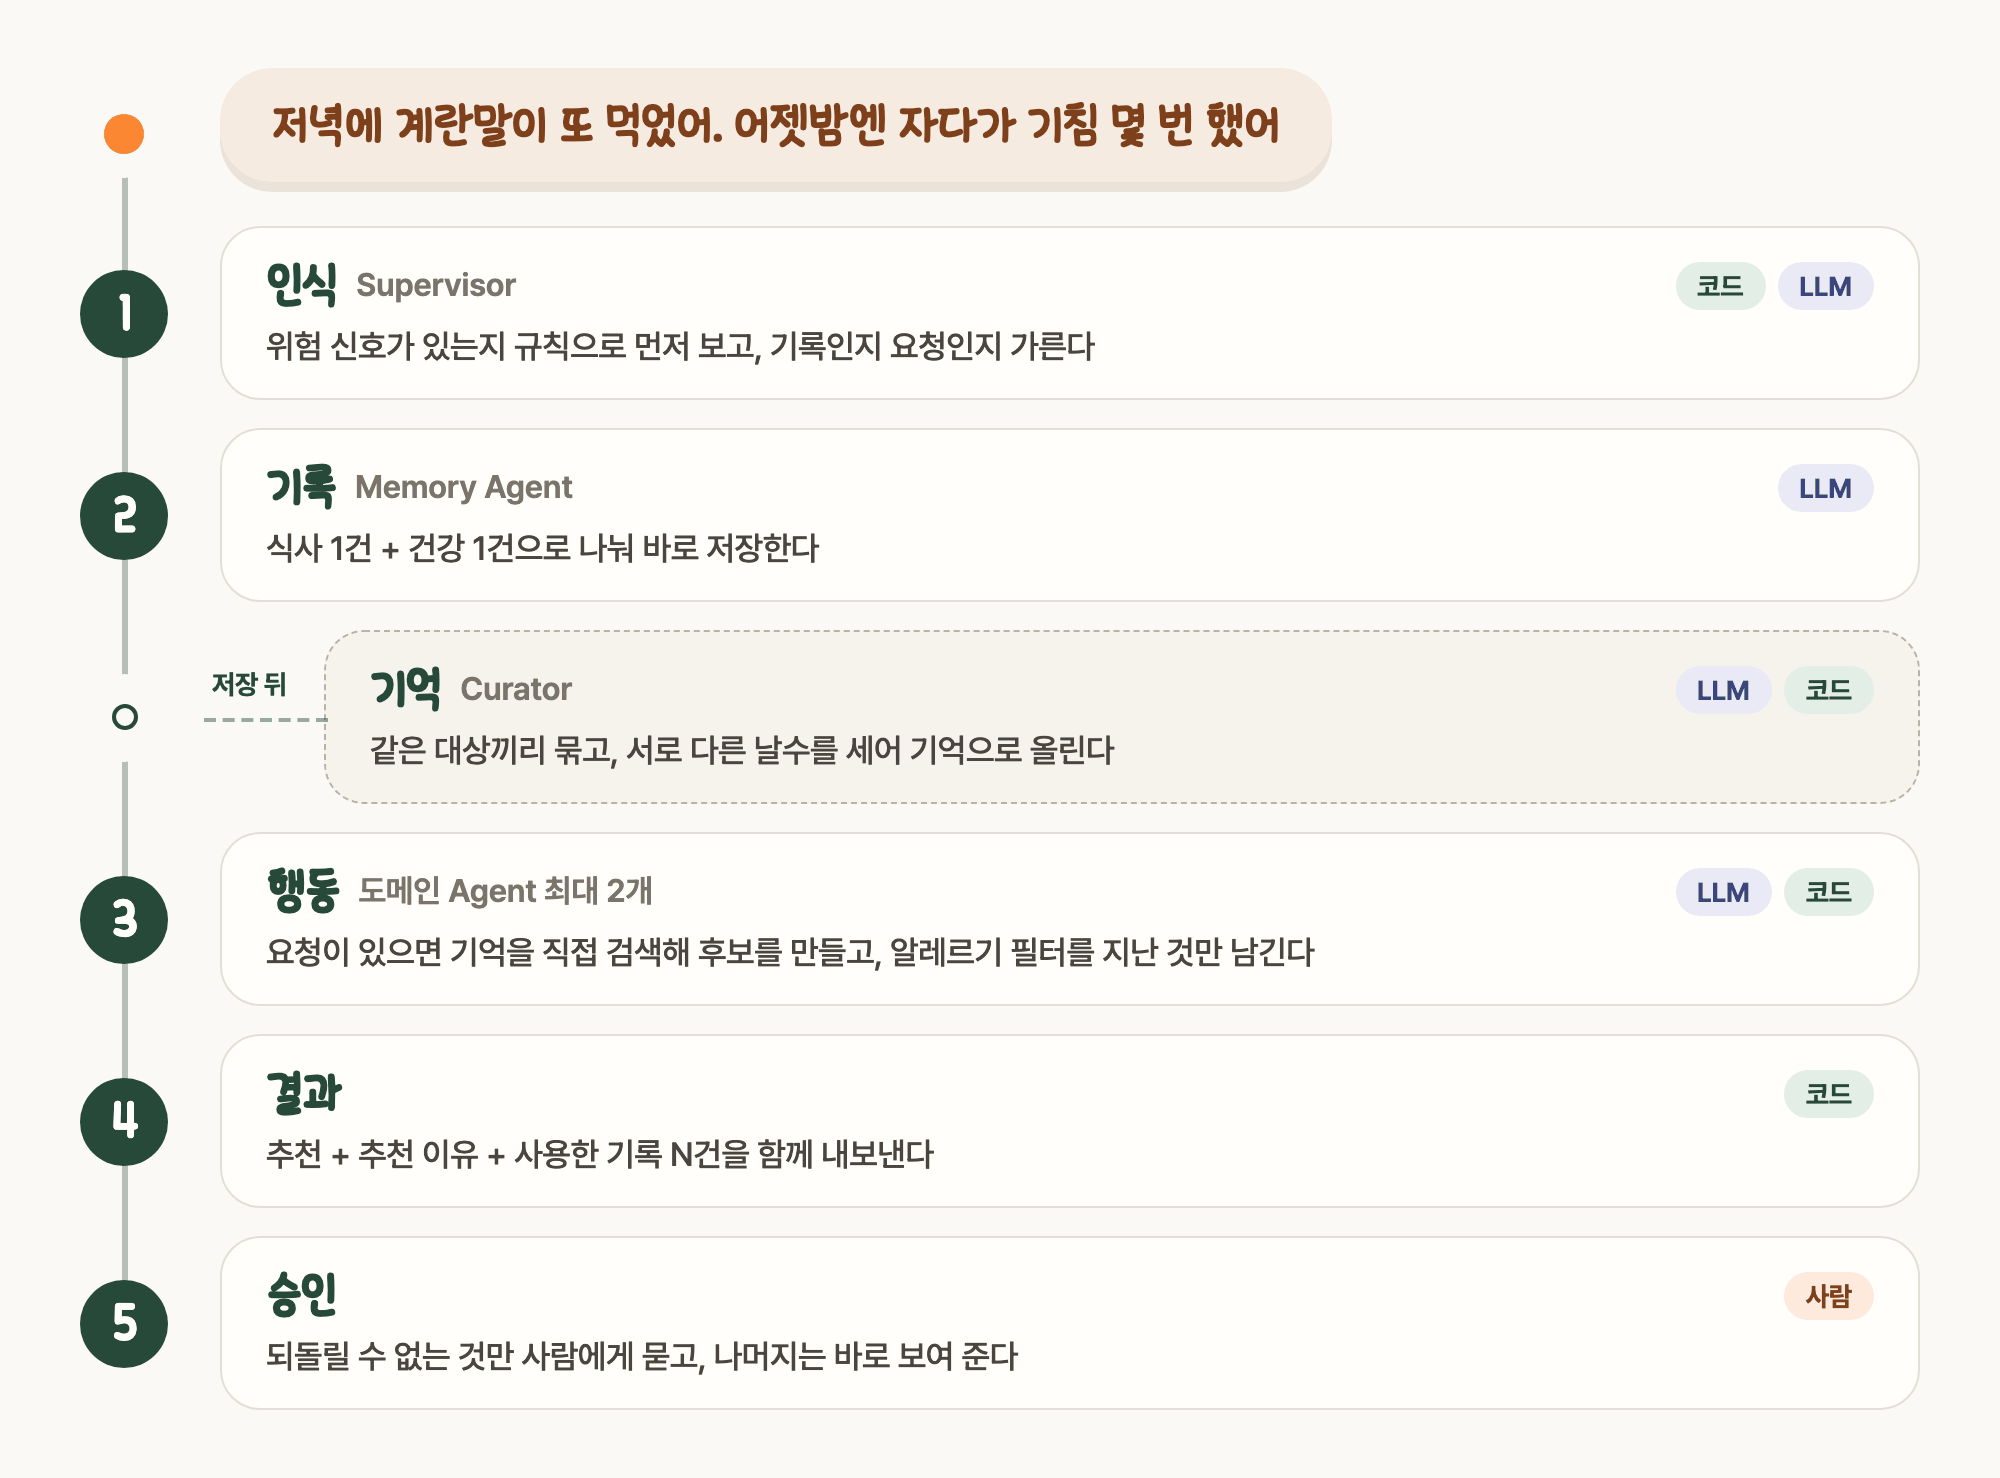
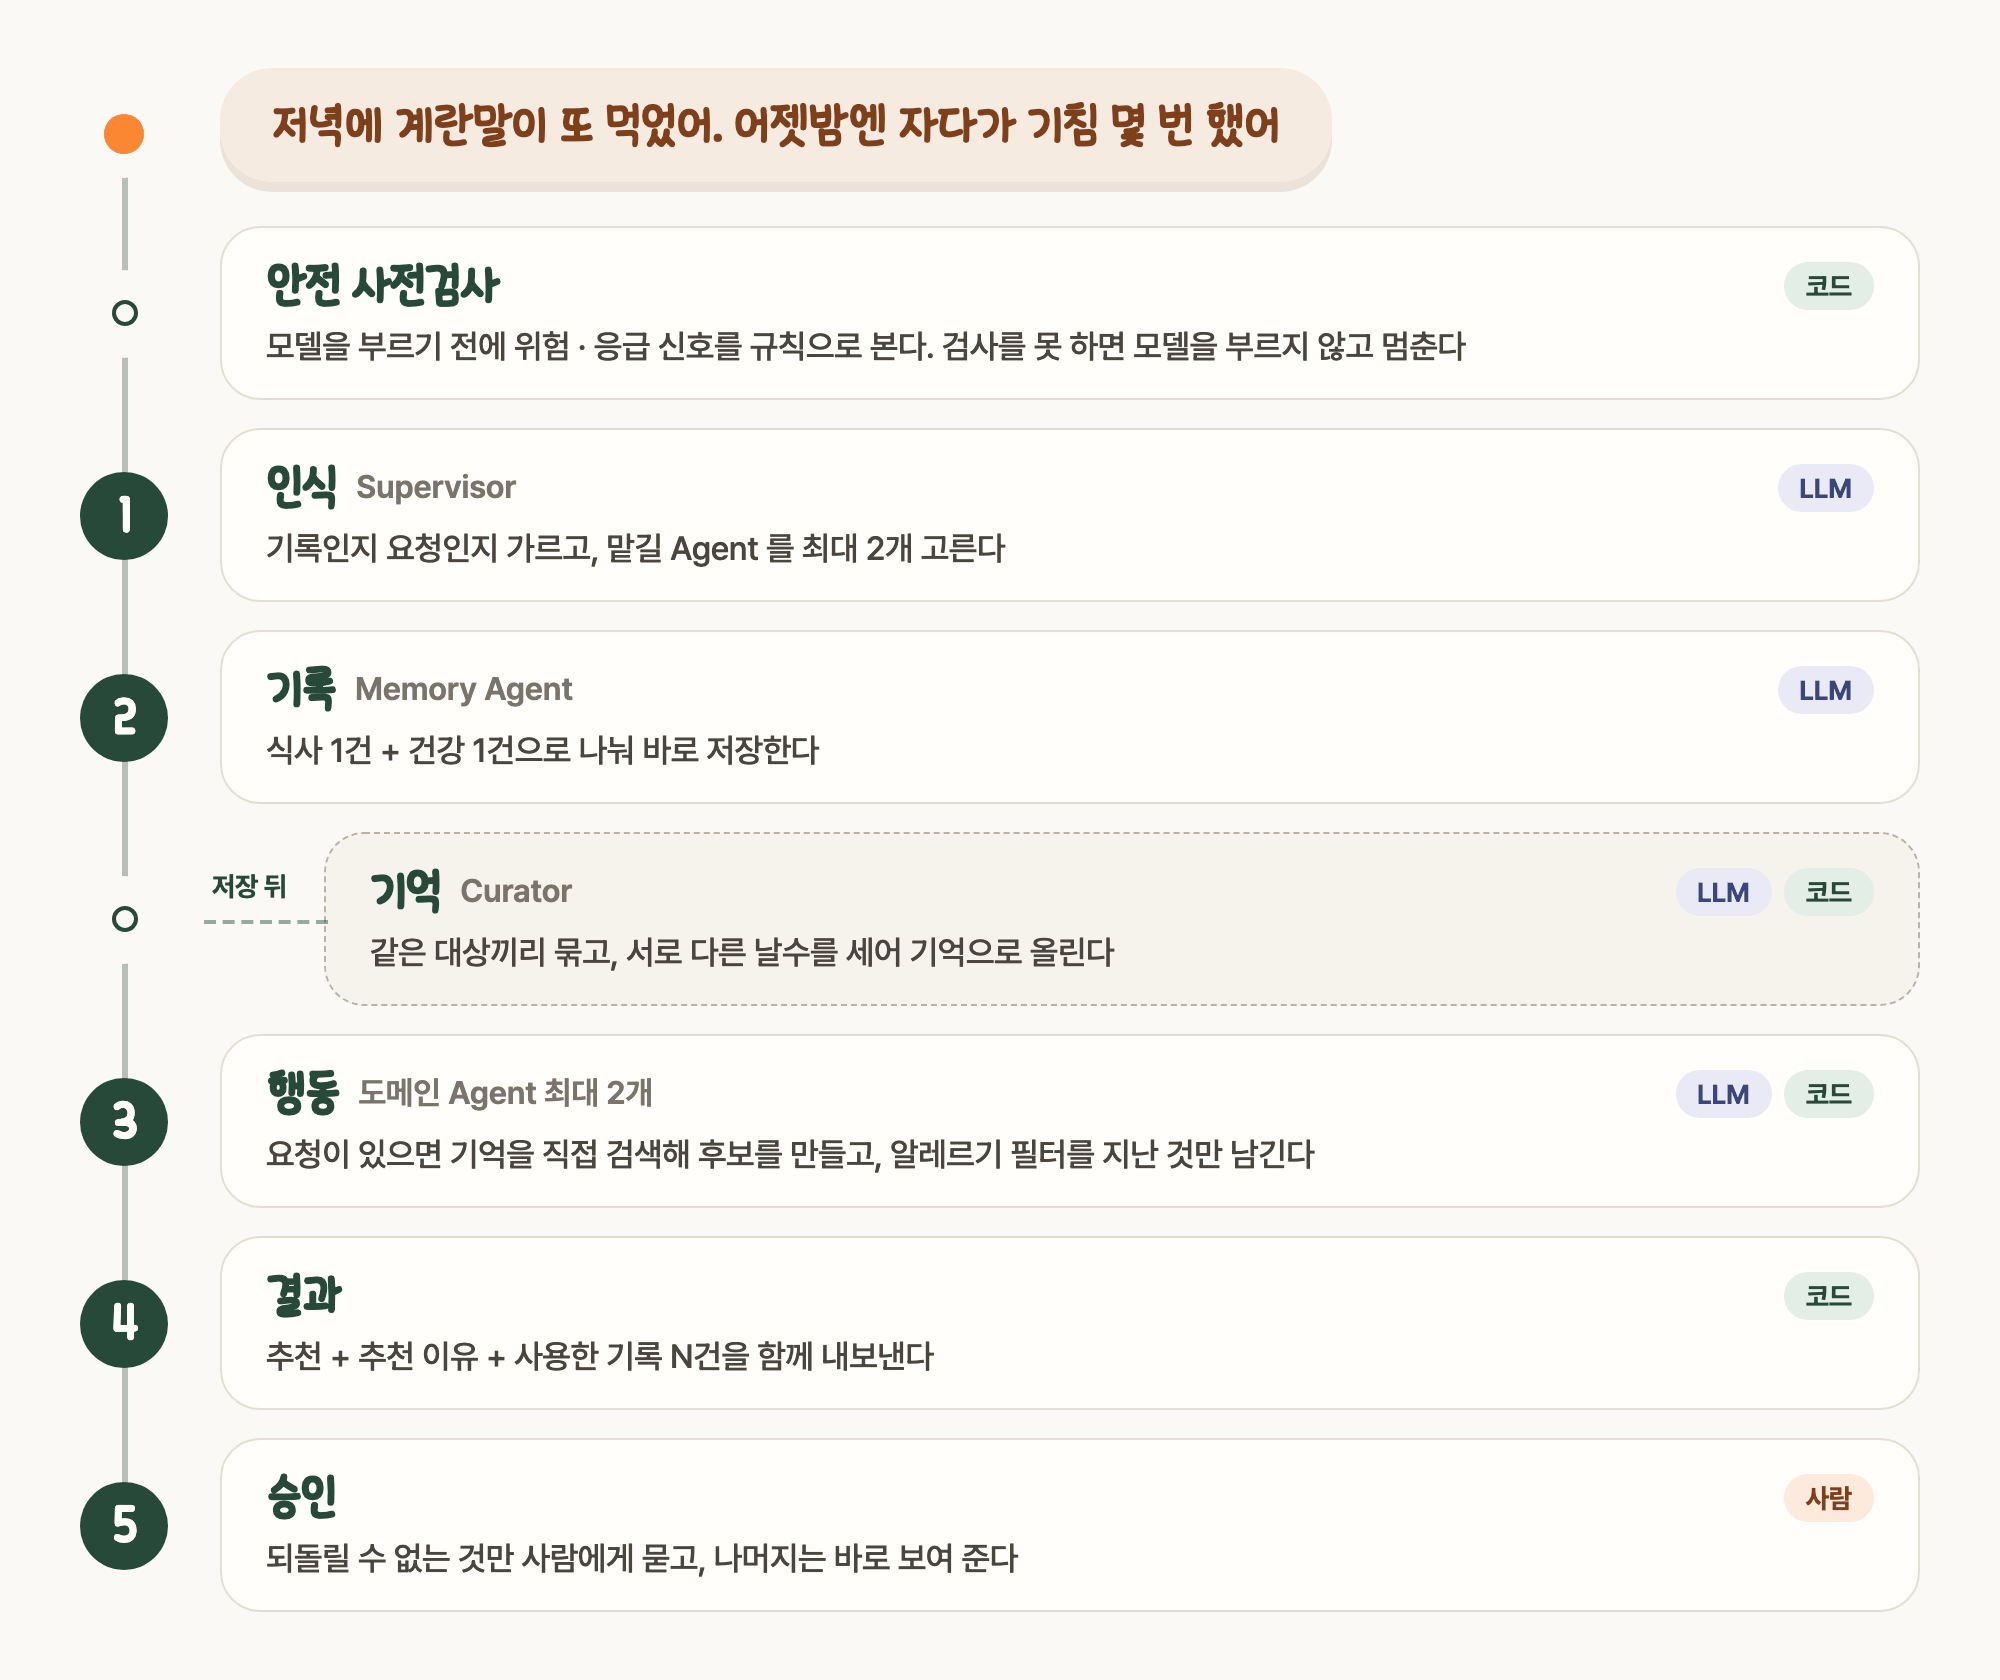
docs(readme): 리뷰 반영 — 급식표 수치를 공식 지표로, 기억 보관 3주 · 승격 2주 3일, 안전 사전검사를 Supervisor 앞으로, live eval · 실행 안내 보완

diff --git a/README.md b/README.md
@@ -114,9 +114,9 @@
 
 **한두 번 적혔을 때**<br>근거로는 쓰지만 아이의 성향으로 정하지 않습니다.
 
-**서로 다른 날에 반복됐을 때**<br>확정된 기억이 되어 추천의 근거로 먼저 쓰입니다.
+**2주 안에 서로 다른 3일에 적혔을 때**<br>확정된 기억이 되어 추천의 근거로 먼저 쓰입니다.
 
-**오래됐을 때**<br>6개월이 지난 관심은 혼자서는 근거가 되지 못합니다.
+**한동안 다시 적히지 않았을 때**<br>3주 동안 다시 적히지 않은 관심은 보관되어 근거에서 빠집니다. 6개월이 지난 기록은 어떤 경우에도 혼자 근거가 되지 못합니다.
 
 **보호자가 고쳤을 때**<br>"이번만 그랬어요" · "잘못된 기록" 에 따라 기억이 바뀝니다.
 
@@ -146,10 +146,12 @@
 
 ### 한 줄이 지나가는 길
 
-<img src="docs/assets/readme/pipeline.png" width="100%" alt="보호자의 한 줄이 지나가는 다섯 단계. 1 인식(Supervisor) — 위험 신호를 규칙으로 먼저 보고 기록인지 요청인지 가른다. 2 기록(Memory Agent) — 식사 1건과 건강 1건으로 나눠 바로 저장한다. 저장 뒤 Curator 가 같은 대상끼리 묶고 서로 다른 날수를 세어 기억으로 올린다. 3 행동(도메인 Agent 최대 2개) — 요청이 있으면 기억을 검색해 후보를 만들고 알레르기 필터를 지난 것만 남긴다. 4 결과 — 추천, 추천 이유, 사용한 기록 N건. 5 승인 — 되돌릴 수 없는 것만 사람에게 묻는다.">
+<img src="docs/assets/readme/pipeline.png" width="100%" alt="보호자의 한 줄이 지나가는 길. 먼저 안전 사전검사 — 모델을 부르기 전에 위험 · 응급 신호를 규칙으로 보고, 검사를 못 하면 모델을 부르지 않고 멈춘다. 1 인식(Supervisor) — 기록인지 요청인지 가르고 맡길 Agent 를 최대 2개 고른다. 2 기록(Memory Agent) — 식사 1건과 건강 1건으로 나눠 바로 저장한다. 저장 뒤 Curator 가 같은 대상끼리 묶고 서로 다른 날수를 세어 기억으로 올린다. 3 행동(도메인 Agent 최대 2개) — 요청이 있으면 기억을 검색해 후보를 만들고 알레르기 필터를 지난 것만 남긴다. 4 결과 — 추천, 추천 이유, 사용한 기록 N건. 5 승인 — 되돌릴 수 없는 것만 사람에게 묻는다.">
 
 | 이렇게 만들었다 | 왜 |
 | --- | --- |
+| **모델보다 규칙이 먼저** | 위험 · 응급 신호 검사는 Supervisor 앞에 있다. 검사를 못 하면 모델을 부르지 않고 멈춘다 |
+| **역할마다 모델을 따로** | Supervisor · Memory · 도메인 Agent 가 각자 키 · 모델 · 추론 강도를 갖는다. 비우면 Memory 의 값을 따른다 |
 | **저장이 검색보다 먼저** | 방금 저장한 기록이 같은 요청의 추천 근거로 잡혀야 한다. 그래서 백엔드와 AI 를 한 서비스로 묶었다 |
 | **20초를 넘기면 부분 결과** | Agent 하나가 늦거나 실패해도 끝난 쪽은 먼저 보여 준다 |
 | **성향은 규칙이 올린다** | 기억은 `candidate` 로 시작하고 반복 집계를 거쳐야 `confirmed` 가 된다. LLM 은 이 상태를 쓰지 못한다 |
@@ -179,7 +181,7 @@ Agent 별 설계 · 프롬프트 · 측정은 [개발 문서 사이트](https://
 | --- | --- |
 | 모바일은 **웹뷰 껍데기** | 화면이 두 벌이 되면 절대 규칙도 두 곳에서 지켜야 한다 |
 | 벡터 DB 를 따로 두지 않고 **PostgreSQL 한 곳** | 여섯 명이 10주에 운영할 인프라는 적을수록 좋다 |
-| 사진은 화면이 **S3 에 바로** 올린다 | 사진 본문이 API 서버를 거치지 않는다. 서버는 읽자마자 지운다 |
+| 사진은 화면이 **S3 에 바로** 올린다 | 업로드가 API 서버를 거치지 않는다. 서버는 읽을 때만 내려받고 바로 지운다 |
 | 배포는 **OIDC + Systems Manager** | 저장소에 서버 열쇠를 두지 않는다 |
 
 서버 구성과 운영 절차는 [배포 · 운영 문서](https://kakaotechcampus-4.github.io/ktc4-pusan-3/ops/deploy-v1/)에 있습니다.
@@ -219,7 +221,7 @@ Agent 별 설계 · 프롬프트 · 측정은 [개발 문서 사이트](https://
 | 계란과 달걀을 **다른 것**으로 본다 | 임베딩 유사도가 뜻이 아니라 글자를 따라갔다 (0.20) | "같은 대상인가" 만 묻는 LLM 판정 | 유사도는 후보 추리기에만 |
 | 긴 입력에서 **출력이 잘린다** | 1,000자부터 Supervisor 출력이 상한에 걸렸다 | 길이별로 재서 500자로 | 긴 글은 사진 읽기로 |
 
-계기 · 비교 · 대가는 [설계 결정 9개](https://kakaotechcampus-4.github.io/ktc4-pusan-3/overview/decisions-v1/)와 [워커 2개로 돌려 본 기록](https://kakaotechcampus-4.github.io/ktc4-pusan-3/ops/workers-2-check-v1/)에 적었습니다.
+계기 · 비교 · 대가는 [설계 결정 8개와 그 밖의 변경](https://kakaotechcampus-4.github.io/ktc4-pusan-3/overview/decisions-v1/)와 [워커 2개로 돌려 본 기록](https://kakaotechcampus-4.github.io/ktc4-pusan-3/ops/workers-2-check-v1/)에 적었습니다.
 
 ## 정말 그렇게 움직이는지 쟀습니다
 
@@ -230,22 +232,22 @@ Agent 별 설계 · 프롬프트 · 측정은 [개발 문서 사이트](https://
 <td align="center" width="25%"><h3>8 / 10</h3><b>기획 때 정한 시나리오</b><br><sub>실제 모델 · 3회 모두 통과해야 통과</sub></td>
 <td align="center" width="25%"><h3>0건</h3><b>절대 규칙 위반</b><br><sub>147 run 을 코드로 판정</sub></td>
 <td align="center" width="25%"><h3>39 / 40</h3><b>장애 점검</b><br><sub>부품 10 × 장애 4 · make test 마다</sub></td>
-<td align="center" width="25%"><h3>178 / 178</h3><b>급식표 메뉴 읽기</b><br><sub>사람이 확정한 정답 1장 · 1회</sub></td>
+<td align="center" width="25%"><h3>68 / 69</h3><b>급식표 끼니 읽기</b><br><sub>정답 1장 × 5회 · 틀린 메뉴가 한 번도 붙지 않은 끼니</sub></td>
 </tr>
 </table>
 
-실패한 2개의 원인은 [기준선 결과](eval/results/2026-11-10.md)에, 평가를 짠 방법은 [eval 문서](https://kakaotechcampus-4.github.io/ktc4-pusan-3/eval/eval-v1/)에, 남은 1칸은 [장애 점검표](eval/faults.md)에 있습니다.
+실패한 2개의 원인은 [기준선 결과](eval/results/2026-11-10.md)에, 평가를 짠 방법은 [eval 문서](https://kakaotechcampus-4.github.io/ktc4-pusan-3/eval/eval-v1/)에, 남은 1칸은 [장애 점검표](eval/faults.md)에, 급식표를 잰 방법은 [급식표 OCR 평가](docs/agents/eval/MEAL_OCR_EVAL.md)에 있습니다.
 
 > [!NOTE]
 > **아직 못 한 것**
 > - 서버는 한 대, 워커는 1개입니다. 상태를 DB 로 옮겨 늘릴 준비까지만 했습니다.
-> - 10개 시나리오 중 2개가 통과하지 못했습니다 — 기록과 요청이 섞인 한 줄, 되묻기 답 이어받기.
+> - 10개 시나리오 중 2개가 통과하지 못했습니다(기록과 요청이 섞인 한 줄, 되묻기 답 이어받기). 두 개 모두 원인은 측정 뒤에 고쳤지만([#841](https://github.com/kakaotechcampus-4/ktc4-pusan-3/pull/841) · [#950](https://github.com/kakaotechcampus-4/ktc4-pusan-3/pull/950)), 전체를 다시 재지는 않았습니다.
 > - 추천 카드의 채택 · 평가는 아직 아이의 성향에 반영되지 않습니다.
 > - 복약 기록은 스토어 정책 때문에 닫아 두었고, Health Agent 는 추천 없이 기록과 안내만 합니다.
 
 ## 직접 돌려 보기
 
-필요한 것: Docker · Python 3.12 + [uv](https://docs.astral.sh/uv/) · Node + pnpm
+필요한 것: Docker · Python 3.12 + [uv](https://docs.astral.sh/uv/) · Node 24 + pnpm
 
 ```bash
 git clone https://github.com/kakaotechcampus-4/ktc4-pusan-3.git && cd ktc4-pusan-3
@@ -258,7 +260,9 @@ cp apps/web/.env.example apps/web/.env.local # 다른 터미널에서
 make web-install && make web-dev             # 웹 → http://localhost:3000
 ```
 
-백엔드 없이 화면만 보려면 `apps/web/.env.local` 에서 `NEXT_PUBLIC_API_MOCKING=enabled` 로 바꿉니다.
+모델 키는 `MEMORY_API_KEY` · `MEMORY_BASE_URL` · `MEMORY_MODEL` 세 개만 채우면 나머지 역할이 그 값을 따라갑니다. OpenAI 호환 엔드포인트면 됩니다.
+
+로그인에는 카카오 키가 필요합니다. 키가 없거나 백엔드 없이 화면만 보려면 `apps/web/.env.local` 에서 `NEXT_PUBLIC_API_MOCKING=enabled` 로 바꿉니다.
 
 | 무엇을 검사하나 | 명령 | CI · 최근 30일 성공률 |
 | --- | --- | :---: |
@@ -266,7 +270,8 @@ make web-install && make web-dev             # 웹 → http://localhost:3000
 | 웹 단위 · 화면 규칙 e2e | `make web-test` · `make web-e2e` | [Web CI](https://github.com/kakaotechcampus-4/ktc4-pusan-3/actions/workflows/ci-web.yml) · 96% |
 | 웹 ↔ 서버 계약 | `make web-contract` | [Contract CI](https://github.com/kakaotechcampus-4/ktc4-pusan-3/actions/workflows/ci-contract.yml) · 100% |
 | 실서버 e2e | `make web-e2e-live` | [Live E2E CI](https://github.com/kakaotechcampus-4/ktc4-pusan-3/actions/workflows/ci-e2e-live.yml) · 100% |
-| AI 품질 (실제 모델) | `make eval` | 손으로 돌린다 |
+| AI 품질 전체 (실제 모델) | `make eval` | 손으로 돌린다 |
+| AI 품질, 바뀐 Agent 만 | PR 에서 자동 | [Agent live eval](https://github.com/kakaotechcampus-4/ktc4-pusan-3/actions/workflows/ci-agent-live.yml) · 프롬프트나 tool spec 이 바뀐 Agent 를 실제 모델로 3회 |
 
 <img src="docs/assets/readme/deploy-flow.png" width="100%" alt="feature 브랜치는 PR · 리뷰 · 필수 검사를 거쳐 develop 에 들어가고, develop 은 dev 서버에 자동 배포된다. develop 은 주 1회 멘토 리뷰 PR 로 main 에 들어가고, main 은 운영 서버에 자동 배포된다.">
 
@@ -292,7 +297,7 @@ make web-install && make web-dev             # 웹 → http://localhost:3000
 | 궁금한 것 | 여기 |
 | --- | --- |
 | Agent 를 어떻게 설계했나 | [개발 문서 사이트](https://kakaotechcampus-4.github.io/ktc4-pusan-3/) |
-| 왜 그렇게 바꿨나 | [설계 결정 9개](https://kakaotechcampus-4.github.io/ktc4-pusan-3/overview/decisions-v1/) |
+| 왜 그렇게 바꿨나 | [설계 결정 8개](https://kakaotechcampus-4.github.io/ktc4-pusan-3/overview/decisions-v1/) |
 | 요구사항 · 데이터 모델 · 안전 설계 | [테크스펙](docs/overview/tech-spec.md) · [서비스 기획](docs/overview/service-plan.md) |
 | API 는 어떻게 생겼나 | [Swagger](https://api.icatch.ai.kr/docs) — 서버 코드에서 만들어지는 계약 정본 |
 | AI 품질을 어떻게 쟀나 | [eval 문서](https://kakaotechcampus-4.github.io/ktc4-pusan-3/eval/eval-v1/) · [결과](eval/results/2026-11-10.md) |
